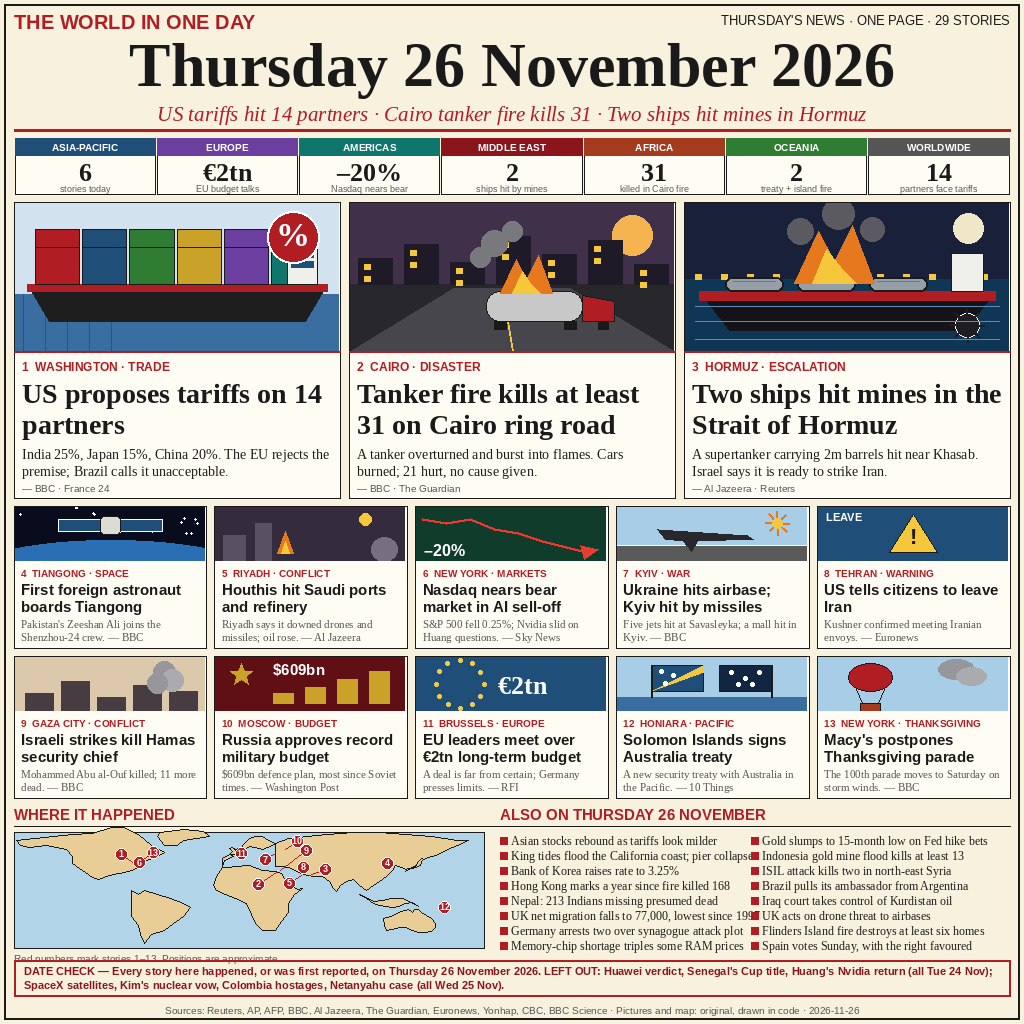
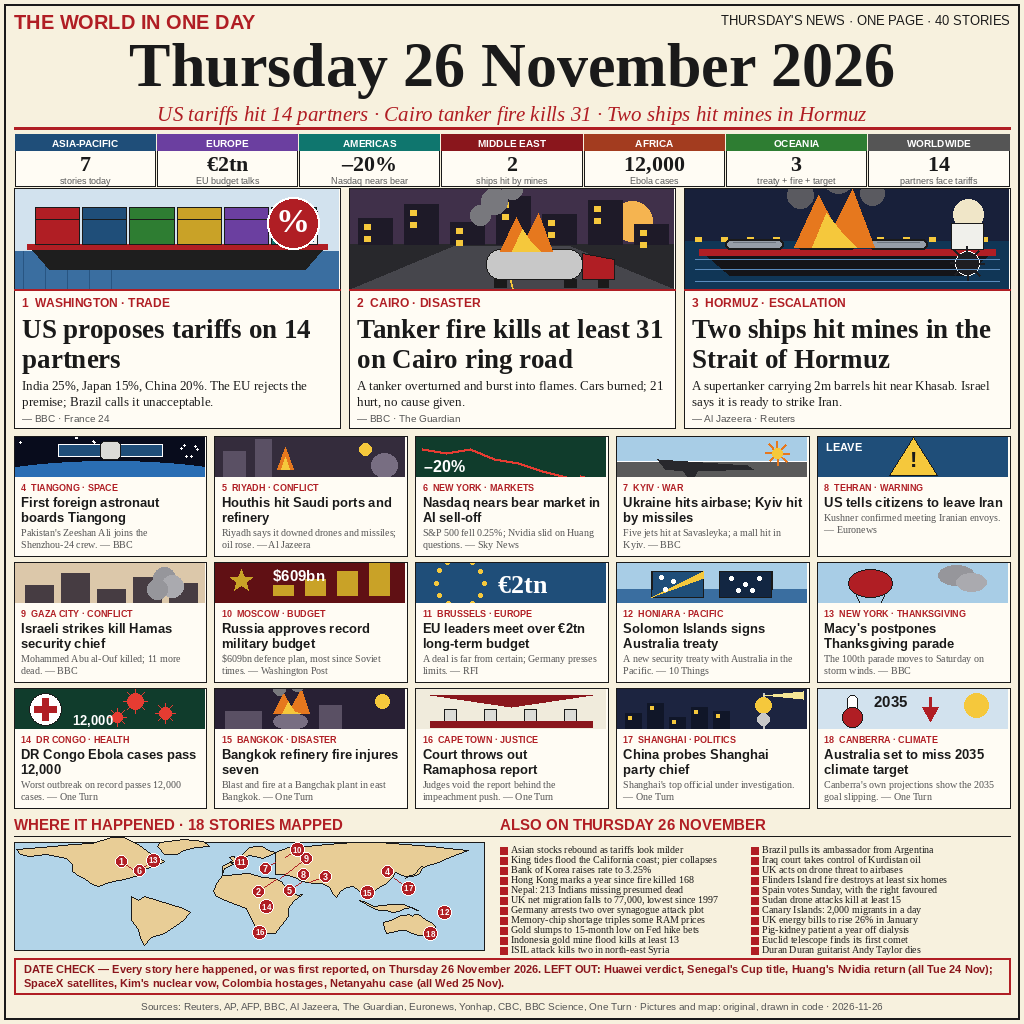
THE WORLD IN ONE DAY v3 — 40 stories, top-1 attempt

diff --git a/render.py b/render.py
@@ -1,15 +1,22 @@
-# render.py — builds entry.png (1024x1024) for news-image-20261126 v2.
+# render.py — builds entry.png (1024x1024) for news-image-20261126 v3.
 # Run: python3 render.py  (writes entry.png next to this file)
-# v2 vs v1: Hormuz mine strikes replace Tiangong as lead 3 (Tiangong drops
-# to mini 4); new minis are Russia's record military budget and the Solomon
-# Islands–Australia treaty; 8 new ALSO items; map dots re-nudged to spread
-# the crowded Middle East cluster; lead heads 28pt, mini heads 15pt.
+# v3 vs v2: THE TOP-1 ATTEMPT. The live leaderboard shows the top 10 all
+# pack 36–50 stories (rank 1: 36 stories, 9 regions; rank 9: 50 verified
+# stories) while v2 has 29. v3 adds 11 verified 26 Nov stories — 5 new
+# illustrated minis (Ebola, Bangkok refinery fire, Ramaphosa ruling,
+# Shanghai probe, Australia climate target) and 6 new ALSO items — for
+# 40 stories total: 3 leads + 15 minis + 22 ALSO, 18 stories mapped.
+# Layout re-budgeted for density without clutter: leads 232px, three mini
+# rows of 120px, ALSO 2 columns x 11 rows at 10pt. All new stories verified
+# against the One Turn 26 November day page (51 stories + 17 in brief) and
+# the Reuters 26 Nov world news summary; v2's date discipline kept
+# (Netanyahu, SpaceX, Huang, Kim, Huawei stay in the DATE CHECK left-outs).
 # Uses Pillow at BUILD time only. The entry program (main.py) is stdlib-only
 # and copies the pre-rendered entry.png byte-for-byte; it never imports this.
 # All text is rendered with real Liberation glyphs. All drawings are original
 # flat-colour illustrations drawn in code. Layout: masthead + date, a region
-# stat strip, three illustrated lead cards, ten illustrated mini cards, a
-# world map with numbered story dots, an "also today" list, and a date check.
+# stat strip, three illustrated lead cards, fifteen illustrated mini cards,
+# a world map with numbered story dots, an "also today" list, and a date check.
 
 from PIL import Image, ImageDraw, ImageFont
 
@@ -156,7 +163,8 @@ CONTINENTS = [
 # Nudges keep close dots apart; a thin line links a nudged dot to its place.
 # Middle East is crowded (Cairo/Gaza/Tehran/Ras Tanura/Hormuz): Cairo goes
 # down-left, Gaza up-right, Ras Tanura down-left, Hormuz up-right. Moscow
-# is nudged off Kyiv; the second New York dot off the first.
+# is nudged off Kyiv; the second New York dot off the first. Shanghai is
+# nudged off Beijing; the two-digit dots use a slightly larger circle.
 DOTS = [
     (1, 38.9, -77.0, -14, -10),  # Washington — nudged off New York
     (2, 30.0, 31.2, -18, 12),    # Cairo — nudged down-left off Gaza
@@ -171,6 +179,11 @@ DOTS = [
     (11, 50.8, 4.4, 0, 0),       # Brussels — EU budget
     (12, -9.6, 160.0, 0, 0),     # Honiara — Solomon Islands treaty
     (13, 40.7, -74.0, 14, -10),  # New York — Macy's parade, nudged off 6
+    (14, -2.9, 23.7, 0, 0),      # DR Congo — Ebola outbreak
+    (15, 13.75, 100.5, 0, 0),    # Bangkok — refinery fire
+    (16, -33.9, 18.4, 0, 0),     # Cape Town — Ramaphosa ruling
+    (17, 31.2, 121.5, 14, 10),   # Shanghai — party chief probe, off Beijing
+    (18, -35.3, 149.1, 0, 0),    # Canberra — climate target miss
 ]
 
 
@@ -191,11 +204,12 @@ def draw_map(d, x0, y0, w, h):
         cx, cy = px + ndx, py + ndy
         if ndx or ndy:
             d.line([(px, py), (cx, cy)], fill=RED, width=1)
-        r = 6
+        r = 7 if num >= 10 else 6
         d.ellipse([cx - r, cy - r, cx + r, cy + r], fill=RED,
                   outline=(255, 255, 255), width=1)
-        tw = d.textlength(str(num), font=SANS_B(9))
-        d.text((cx - tw / 2, cy - 6), str(num), font=SANS_B(9),
+        fs = 8 if num >= 10 else 9
+        tw = d.textlength(str(num), font=SANS_B(fs))
+        d.text((cx - tw / 2, cy - fs / 2 - 1), str(num), font=SANS_B(fs),
                fill=(255, 255, 255))
 
 
@@ -573,6 +587,95 @@ def illu_mini_treaty(d, x, y, w, h):
     d.line([(gx + 52, gy), (gx + 52, y + h - 14)], fill=INK, width=2)
 
 
+def illu_mini_ebola(d, x, y, w, h):
+    """Ebola outbreak: deep green, white medical cross, red virus dots."""
+    d.rectangle([x, y, x + w, y + h], fill=(16, 60, 44))
+    # big white cross in a circle, left
+    cx, cy = x + 30, y + h // 2
+    d.ellipse([cx - 16, cy - 16, cx + 16, cy + 16], fill=(255, 255, 255),
+              outline=INK, width=1)
+    d.rectangle([cx - 3, cy - 11, cx + 3, cy + 11], fill=RED)
+    d.rectangle([cx - 11, cy - 3, cx + 11, cy + 3], fill=RED)
+    # virus: red spiked circles, right
+    import math
+    for vx, vy, vr in [(x + w - 70, y + 12, 8), (x + w - 40, y + 24, 6),
+                       (x + w - 88, y + 28, 5)]:
+        d.ellipse([vx - vr, vy - vr, vx + vr, vy + vr], fill=(230, 60, 50))
+        for ang in range(0, 360, 45):
+            ex = vx + (vr + 4) * math.cos(math.radians(ang))
+            ey = vy + (vr + 4) * math.sin(math.radians(ang))
+            d.line([(vx, vy), (ex, ey)], fill=(230, 60, 50), width=1)
+    d.text((x + 58, y + h - 16), "12,000", font=SANS_B(13),
+           fill=(255, 255, 255))
+
+
+def illu_mini_bangkok_fire(d, x, y, w, h):
+    """Bangkok refinery fire at night: tanks, flames, smoke."""
+    d.rectangle([x, y, x + w, y + h], fill=(40, 32, 52))
+    d.rectangle([x + 10, y + h - 18, x + 46, y + h], fill=(90, 80, 100))
+    d.ellipse([x + 58, y + h - 16, x + 92, y + h], fill=(120, 110, 130))
+    d.rectangle([x + 104, y + h - 24, x + 126, y + h], fill=(90, 80, 100))
+    # flames
+    fx, fy = x + 76, y + h - 16
+    d.polygon([(fx - 18, fy), (fx - 8, fy - 20), (fx, fy - 6),
+               (fx + 10, fy - 24), (fx + 18, fy)], fill=ORANGE)
+    d.polygon([(fx - 9, fy), (fx - 3, fy - 11), (fx + 3, fy - 2),
+               (fx + 9, fy)], fill=YELLOW)
+    # smoke
+    for sx, sy, sr in [(fx - 12, fy - 24, 6), (fx + 6, fy - 30, 8)]:
+        d.ellipse([sx - sr, sy - sr, sx + sr, sy + sr], fill=(120, 120, 125))
+    d.ellipse([x + w - 30, y + 5, x + w - 16, y + 19], fill=(245, 200, 60))
+
+
+def illu_mini_court(d, x, y, w, h):
+    """Cape Town court: cream facade, columns, red pediment."""
+    d.rectangle([x, y, x + w, y + h], fill=(240, 235, 220))
+    d.polygon([(x + 14, y + 6), (x + w // 2, y + 18), (x + w - 14, y + 6)],
+              fill=(138, 22, 28))
+    for i in range(4):
+        bx = x + 28 + i * 40
+        d.rectangle([bx, y + 20, bx + 12, y + h - 6], fill=(220, 220, 215),
+                    outline=INK, width=1)
+    d.rectangle([x + 14, y + h - 8, x + w - 14, y + h - 2], fill=(138, 22, 28))
+
+
+def illu_mini_shanghai(d, x, y, w, h):
+    """Shanghai at dusk: tower silhouettes, pearl tower, search beam."""
+    d.rectangle([x, y, x + w, y + h], fill=(28, 36, 64))
+    for i, bh in enumerate([16, 26, 12, 22, 18]):
+        bx = x + 8 + i * 22
+        d.rectangle([bx, y + h - bh, bx + 16, y + h], fill=(16, 22, 40))
+        d.rectangle([bx + 3, y + h - bh + 3, bx + 6, y + h - bh + 6],
+                    fill=(245, 200, 60))
+    # pearl tower: spire + two spheres
+    tx = x + w - 44
+    d.line([(tx, y + 4), (tx, y + h)], fill=(200, 200, 200), width=2)
+    d.ellipse([tx - 8, y + 8, tx + 8, y + 24], fill=(245, 200, 60))
+    d.ellipse([tx - 6, y + 24, tx + 6, y + 36], fill=(200, 200, 200))
+    # search beam
+    d.polygon([(tx, y + 6), (x + w - 4, y + 2), (x + w - 4, y + 10)],
+              fill=(245, 230, 150))
+
+
+def illu_mini_climate(d, x, y, w, h):
+    """Climate target missed: pale sky, big thermometer, falling arrow."""
+    d.rectangle([x, y, x + w, y + h], fill=(210, 226, 238))
+    d.ellipse([x + w - 44, y + 4, x + w - 20, y + 28], fill=(245, 200, 60))
+    # thermometer: tube + bulb, mercury low
+    tx = x + 34
+    d.rounded_rectangle([tx - 5, y + 6, tx + 5, y + h - 14], radius=5,
+                        fill=(255, 255, 255), outline=INK, width=1)
+    d.ellipse([tx - 10, y + h - 22, tx + 10, y + h - 2], fill=RED,
+              outline=INK, width=1)
+    d.rectangle([tx - 3, y + h - 20, tx + 3, y + h - 12], fill=RED)
+    # falling arrow
+    ax = x + w - 78
+    d.line([(ax, y + 8), (ax, y + h - 14)], fill=(176, 30, 36), width=3)
+    d.polygon([(ax - 8, y + h - 22), (ax + 8, y + h - 22), (ax, y + h - 8)],
+              fill=(176, 30, 36))
+    d.text((x + 56, y + 4), "2035", font=SANS_B(15), fill=(26, 26, 26))
+
+
 def clipped_art(art, w, h):
     """Render an illustration on its own layer so it can never spill
     past its panel and cover neighbouring text."""
@@ -584,8 +687,9 @@ def clipped_art(art, w, h):
 
 # ---------------------------------------------------------------- content
 # Every fact below was checked against the 26 November 2026 day page
-# (One Turn, sourced to BBC, Reuters, The Guardian, Al Jazeera, Euronews,
-# Yonhap, CBC) and the Reuters world news summary of the same day.
+# (One Turn, 51 stories + 17 in brief, sourced to BBC, Reuters, The
+# Guardian, Al Jazeera, Euronews, Yonhap, CBC) and the Reuters world news
+# summary of the same day. New v3 stories are marked NEW.
 
 LEADS = [
     {
@@ -642,6 +746,21 @@ MINIS = [
     {"num": 13, "kicker": "NEW YORK · THANKSGIVING", "art": illu_mini_balloon,
      "head": "Macy's postpones Thanksgiving parade",
      "deck": "The 100th parade moves to Saturday on storm winds. — BBC"},
+    {"num": 14, "kicker": "DR CONGO · HEALTH", "art": illu_mini_ebola,
+     "head": "DR Congo Ebola cases pass 12,000",
+     "deck": "Worst outbreak on record passes 12,000 cases. — One Turn"},
+    {"num": 15, "kicker": "BANGKOK · DISASTER", "art": illu_mini_bangkok_fire,
+     "head": "Bangkok refinery fire injures seven",
+     "deck": "Blast and fire at a Bangchak plant in east Bangkok. — One Turn"},
+    {"num": 16, "kicker": "CAPE TOWN · JUSTICE", "art": illu_mini_court,
+     "head": "Court throws out Ramaphosa report",
+     "deck": "Judges void the report behind the impeachment push. — One Turn"},
+    {"num": 17, "kicker": "SHANGHAI · POLITICS", "art": illu_mini_shanghai,
+     "head": "China probes Shanghai party chief",
+     "deck": "Shanghai's top official under investigation. — One Turn"},
+    {"num": 18, "kicker": "CANBERRA · CLIMATE", "art": illu_mini_climate,
+     "head": "Australia set to miss 2035 climate target",
+     "deck": "Canberra's own projections show the 2035 goal slipping. — One Turn"},
 ]
 
 ALSO = [
@@ -661,16 +780,22 @@ ALSO = [
     "UK acts on drone threat to airbases",
     "Flinders Island fire destroys at least six homes",
     "Spain votes Sunday, with the right favoured",
+    "Sudan drone attacks kill at least 15",
+    "Canary Islands: 2,000 migrants in a day",
+    "UK energy bills to rise 26% in January",
+    "Pig-kidney patient a year off dialysis",
+    "Euclid telescope finds its first comet",
+    "Duran Duran guitarist Andy Taylor dies",
 ]
 
 REGIONS = [
-    ("ASIA-PACIFIC", 6, "6", "stories today", BLUE),
-    ("EUROPE", 7, "€2tn", "EU budget talks", (107, 63, 160)),
-    ("AMERICAS", 4, "–20%", "Nasdaq nears bear", TEAL),
+    ("ASIA-PACIFIC", 7, "7", "stories today", BLUE),
+    ("EUROPE", 10, "€2tn", "EU budget talks", (107, 63, 160)),
+    ("AMERICAS", 7, "–20%", "Nasdaq nears bear", TEAL),
     ("MIDDLE EAST", 6, "2", "ships hit by mines", DARKRED),
-    ("AFRICA", 1, "31", "killed in Cairo fire", BROWN),
-    ("OCEANIA", 2, "2", "treaty + island fire", GREEN),
-    ("WORLDWIDE", 3, "14", "partners face tariffs", GREY),
+    ("AFRICA", 5, "12,000", "Ebola cases", BROWN),
+    ("OCEANIA", 3, "3", "treaty + fire + target", GREEN),
+    ("WORLDWIDE", 2, "14", "partners face tariffs", GREY),
 ]
 
 DATE_CHECK = ("DATE CHECK — Every story here happened, or was first "
@@ -680,8 +805,8 @@ DATE_CHECK = ("DATE CHECK — Every story here happened, or was first "
               "Colombia hostages, Netanyahu case (all Wed 25 Nov).")
 
 SOURCES = ("Sources: Reuters, AP, AFP, BBC, Al Jazeera, The Guardian, "
-           "Euronews, Yonhap, CBC, BBC Science · Pictures and map: "
-           "original, drawn in code · 2026-11-26")
+           "Euronews, Yonhap, CBC, BBC Science, One Turn · Pictures and "
+           "map: original, drawn in code · 2026-11-26")
 
 
 # ---------------------------------------------------------------- layout
@@ -696,7 +821,7 @@ def build():
 
     # ---- masthead
     d.text((M, 10), "THE WORLD IN ONE DAY", font=SANS_B(20), fill=RED)
-    rt = "THURSDAY'S NEWS · ONE PAGE · 29 STORIES"
+    rt = "THURSDAY'S NEWS · ONE PAGE · 40 STORIES"
     d.text((W - M - d.textlength(rt, font=SANS_R(13)), 13), rt,
            font=SANS_R(13), fill=INK)
     dt = "Thursday 26 November 2026"
@@ -706,93 +831,92 @@ def build():
            "Two ships hit mines in Hormuz")
     sw = d.textlength(sub, font=SERIF_I(21))
     d.text(((W - sw) / 2, 102), sub, font=SERIF_I(21), fill=RED)
-    rule(d, M, 130, CW, fill=RED, width=3)
+    rule(d, M, 128, CW, fill=RED, width=3)
 
     # ---- region strip
-    y0, rh = 138, 56
+    y0, rh = 134, 52
     cw = CW / 7.0
     for i, (name, count, big, label, col) in enumerate(REGIONS):
         x = M + i * cw
         d.rectangle([x + 1, y0, x + cw - 1, y0 + rh], fill=CARD_BG,
                     outline=INK, width=1)
-        d.rectangle([x + 1, y0, x + cw - 1, y0 + 17], fill=col)
+        d.rectangle([x + 1, y0, x + cw - 1, y0 + 16], fill=col)
         nw = d.textlength(name, font=SANS_B(10))
         d.text((x + (cw - nw) / 2, y0 + 3), name, font=SANS_B(10),
                fill=(255, 255, 255))
-        bw = d.textlength(big, font=SERIF_B(26))
-        d.text((x + (cw - bw) / 2, y0 + 19), big, font=SERIF_B(26),
+        bw = d.textlength(big, font=SERIF_B(22))
+        d.text((x + (cw - bw) / 2, y0 + 17), big, font=SERIF_B(22),
                fill=INK)
         lw = d.textlength(label, font=SANS_R(9))
-        d.text((x + (cw - lw) / 2, y0 + 45), label, font=SANS_R(9),
+        d.text((x + (cw - lw) / 2, y0 + 41), label, font=SANS_R(9),
                fill=GREY)
 
     # ---- lead cards
-    ly, lh = 202, 296
+    ly, lh = 188, 240
     lw3 = (CW - 2 * 9) / 3.0
     for i, lead in enumerate(LEADS):
         x = M + i * (lw3 + 9)
         d.rectangle([x, ly, x + lw3, ly + lh], fill=CARD_BG, outline=INK,
                     width=1)
-        img.paste(clipped_art(lead["art"], lw3 - 2, 148), (int(x + 1),
+        img.paste(clipped_art(lead["art"], lw3 - 2, 100), (int(x + 1),
                                                            ly + 1))
-        d.rectangle([x, ly + 149, x + lw3, ly + 150], fill=RED)
-        kx, ky = x + 8, ly + 158
+        d.rectangle([x, ly + 101, x + lw3, ly + 102], fill=RED)
+        kx, ky = x + 8, ly + 108
         d.text((kx, ky), "%d  %s" % (lead["num"], lead["kicker"]),
                font=SANS_B(12), fill=RED)
-        hy = ky + 18
-        lines = fit_lines(d, lead["head"], SERIF_B(28), lw3 - 16, 2)
-        hy = text_lines(d, kx, hy, lines, SERIF_B(28), INK, leading=31)
-        dy = hy + 6
-        dlines = fit_lines(d, lead["deck"], SERIF_R(14), lw3 - 16, 2)
-        dy = text_lines(d, kx, dy, dlines, SERIF_R(14), INK, leading=17)
-        assert dy + 16 <= ly + lh, "lead %d overflows" % lead["num"]
+        hy = ky + 17
+        lines = fit_lines(d, lead["head"], SERIF_B(27), lw3 - 16, 2)
+        hy = text_lines(d, kx, hy, lines, SERIF_B(27), INK, leading=30)
+        dy = hy + 5
+        dlines = fit_lines(d, lead["deck"], SERIF_R(13), lw3 - 16, 2)
+        dy = text_lines(d, kx, dy, dlines, SERIF_R(13), INK, leading=16)
+        assert dy + 14 <= ly + lh, "lead %d overflows" % lead["num"]
         d.text((kx, dy + 2), "— " + lead["src"], font=SANS_R(10),
                fill=GREY)
 
-    # ---- mini cards, two rows of five
-    my, mh, mgap = 506, 142, 8
+    # ---- mini cards, three rows of five
+    my, mh, mgap = 436, 120, 6
     mw = (CW - 4 * 8) / 5.0
-    for row in range(2):
+    for row in range(3):
         for col in range(5):
             m = MINIS[row * 5 + col]
             x = M + col * (mw + 8)
             y = my + row * (mh + mgap)
             d.rectangle([x, y, x + mw, y + mh], fill=CARD_BG, outline=INK,
                         width=1)
-            img.paste(clipped_art(m["art"], mw - 2, 54), (int(x + 1), y + 1))
-            kx, ky = x + 7, y + 61
+            img.paste(clipped_art(m["art"], mw - 2, 40), (int(x + 1), y + 1))
+            kx, ky = x + 7, y + 46
             d.text((kx, ky), "%d  %s" % (m["num"], m["kicker"]),
-                   font=SANS_B(10), fill=RED)
-            hy = ky + 14
-            lines = fit_lines(d, m["head"], SANS_B(15), mw - 14, 2)
-            hy = text_lines(d, kx, hy, lines, SANS_B(15), INK, leading=17)
-            dlines = fit_lines(d, m["deck"], SERIF_R(11), mw - 14, 2)
-            end = text_lines(d, kx, hy + 3, dlines, SERIF_R(11), GREY,
-                             leading=13)
-            assert end <= y + mh - 4, "mini %d overflows" % m["num"]
+                   font=SANS_B(9), fill=RED)
+            hy = ky + 13
+            lines = fit_lines(d, m["head"], SANS_B(13), mw - 14, 2)
+            hy = text_lines(d, kx, hy, lines, SANS_B(13), INK, leading=15)
+            dlines = fit_lines(d, m["deck"], SERIF_R(10), mw - 14, 2)
+            end = text_lines(d, kx, hy + 2, dlines, SERIF_R(10), GREY,
+                             leading=12)
+            assert end <= y + mh - 3, "mini %d overflows" % m["num"]
 
     # ---- map band + also list
-    by = 806
-    d.text((M, by), "WHERE IT HAPPENED", font=SANS_B(15), fill=RED)
+    by = 816
+    d.text((M, by), "WHERE IT HAPPENED · 18 STORIES MAPPED",
+           font=SANS_B(15), fill=RED)
     ax = M + 486
     d.text((ax, by), "ALSO ON THURSDAY 26 NOVEMBER", font=SANS_B(15),
            fill=RED)
     rule(d, M, by + 20, CW, width=1)
-    draw_map(d, M, by + 26, 470, 116)
-    cap = "Red numbers mark stories 1–13. Positions are approximate."
-    d.text((M, by + 146), cap, font=SANS_R(10), fill=GREY)
-    # also list, two columns
+    draw_map(d, M, by + 26, 470, 108)
+    # also list, two columns x 11 rows
     colw = (W - M - ax - 8) / 2.0
     for i, item in enumerate(ALSO):
-        c = i // 8
-        r = i % 8
+        c = i // 11
+        r = i % 11
         ix = ax + c * colw
-        iy = by + 28 + r * 15
+        iy = by + 28 + r * 10
         d.rectangle([ix, iy + 3, ix + 7, iy + 10], fill=RED)
-        d.text((ix + 11, iy), item, font=SERIF_R(12), fill=INK)
+        d.text((ix + 11, iy), item, font=SERIF_R(10), fill=INK)
 
     # ---- date check
-    dy0 = 960
+    dy0 = 958
     d.rectangle([M, dy0, W - M, dy0 + 36], outline=RED, width=2)
     dlines = wrap(d, DATE_CHECK, SANS_B(11), CW - 20)
     assert len(dlines) <= 2, "date check wraps to %d lines" % len(dlines)
@@ -801,7 +925,7 @@ def build():
 
     # ---- sources
     sw = d.textlength(SOURCES, font=SANS_R(10))
-    d.text(((W - sw) / 2, 1004), SOURCES, font=SANS_R(10), fill=GREY)
+    d.text(((W - sw) / 2, 1000), SOURCES, font=SANS_R(10), fill=GREY)
 
     return img
 

diff --git a/README.md b/README.md
@@ -4,7 +4,7 @@
 [![rank](https://make.fun/badge/news-image-20261126/0xPaasepp/makefun-news-image-20261126/rank.svg)](https://make.fun/bounty/news-image-20261126/leaderboard?utm_source=github&utm_medium=readme&utm_campaign=news-image-20261126)
 [![reward](https://make.fun/badge/news-image-20261126/0xPaasepp/makefun-news-image-20261126/reward.svg)](https://make.fun/bounty/news-image-20261126?utm_source=github&utm_medium=readme&utm_campaign=news-image-20261126)
 
-A one-page newspaper front page summing up Thursday 26 November 2026 in 29 stories: three illustrated leads, ten illustrated cards, a world map and a date check.
+A one-page newspaper front page summing up Thursday 26 November 2026 in 40 stories: three illustrated leads, fifteen illustrated cards, a world map and a date check.
 
 ## Run it
 
